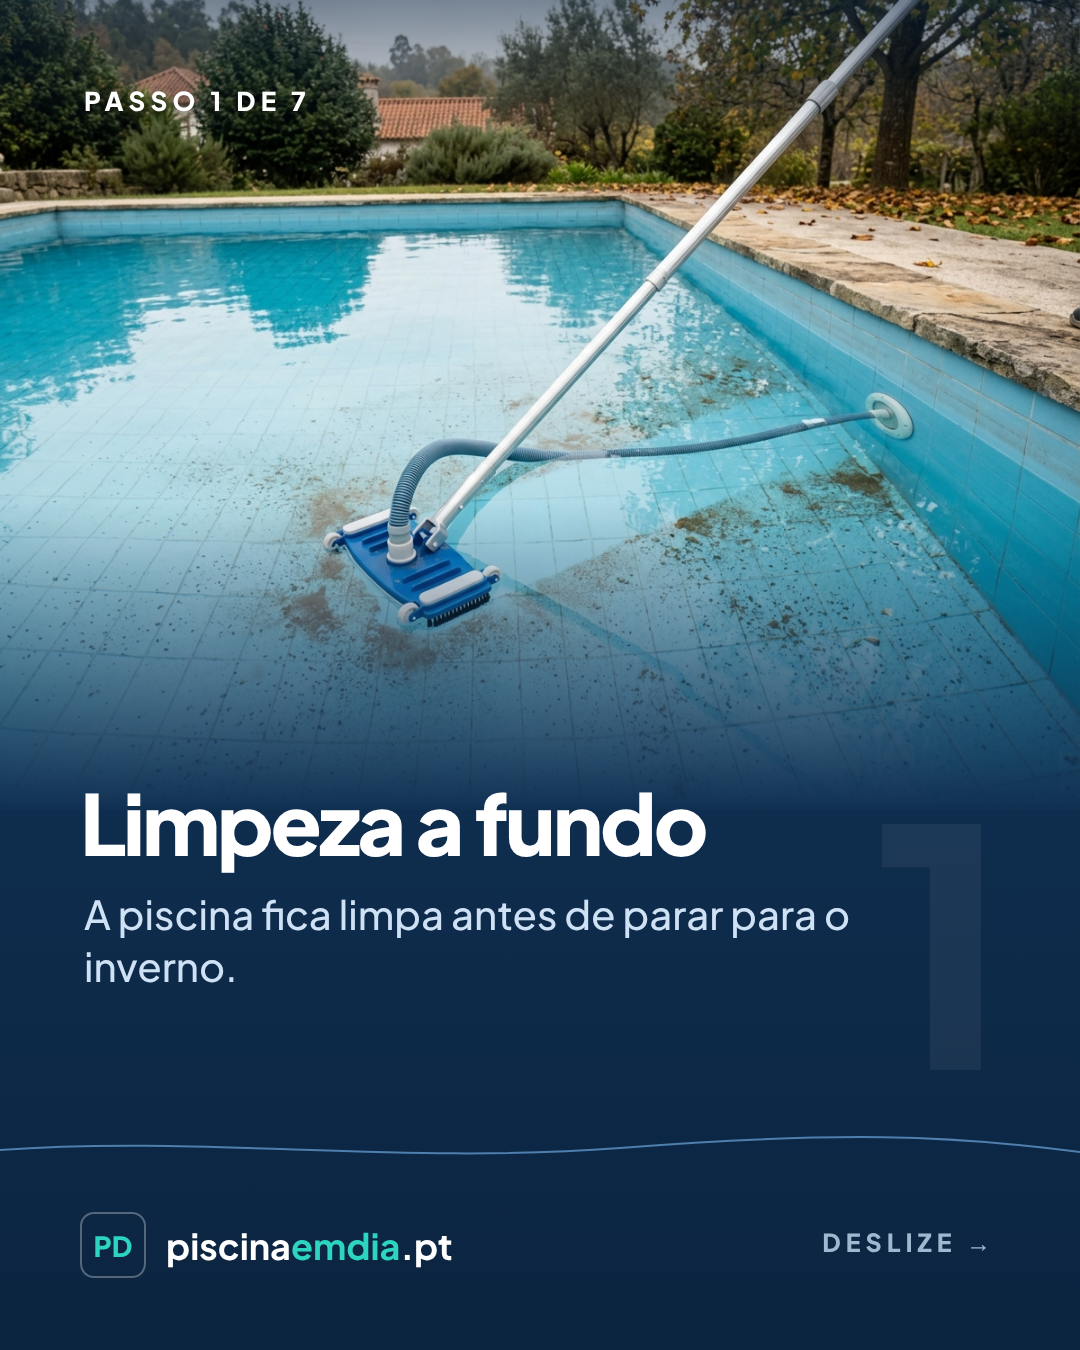
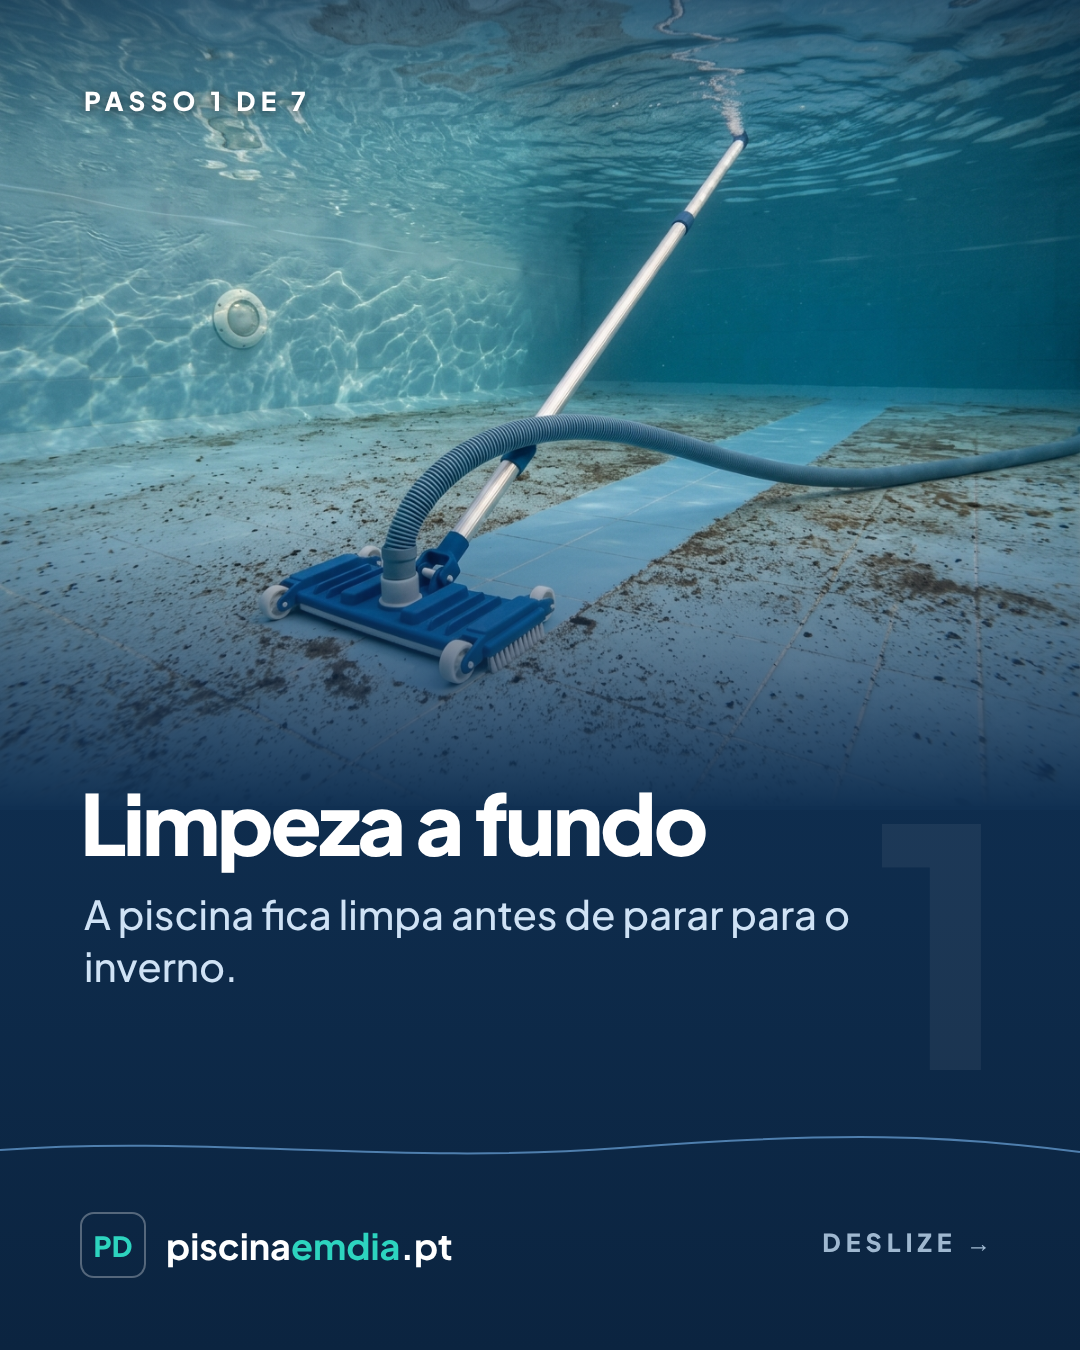
Replace floating vacuum photo with underwater shot
Claude-Session: https://claude.ai/code/session_015APGbDmTNWJmiYTMG5yM5V

diff --git a/piscina-em-dia/.agents/product-marketing.md b/piscina-em-dia/.agents/product-marketing.md
@@ -170,7 +170,7 @@ TO CONFIRM
 *Decisions and tested lessons. Newest first. Keep it to about 20 active entries.*
 | Date | Learning | Evidence | Applies to | Status |
 |------|----------|----------|------------|--------|
-| 2026-10-30 | AI images, second review: count hands/arms and vacuum heads and hoses in every image before sending (Gemini adds extra ones); vacuuming is done standing on the pool edge with a long telescopic pole, never kneeling with a short pole; the hose must be visibly fitted onto the vacuum head's single connector; avoid showing legible product labels | Owner review 2026-10-30: kneeling technician with short pole, loose hose, three arms in the test-kit photo | Image generation | Active |
+| 2026-10-30 | AI images, second review: count hands/arms and vacuum heads and hoses in every image before sending (Gemini adds extra ones); vacuuming is done standing on the pool edge with a long telescopic pole, never kneeling with a short pole; the hose must be visibly fitted onto the vacuum head's single connector; the head must rest on the floor under the water (an underwater shot works best, shots from the edge made it look like it was floating); avoid showing legible product labels | Owner review 2026-10-30: kneeling technician with short pole, loose hose, three arms in the test-kit photo | Image generation | Active |
 | 2026-10-30 | AI images: pass the owner's reference photo for skimmers, vacuum and dispenser; ask for one simple accessory per image; a manual vacuum head must show its hose going to the skimmer; with a reference image Gemini tends to copy its other objects (duplicate lids), so name the objects to copy and forbid the rest; prefer one hand in frame | Winter carousel, 2026-10-30: 3 of 7 step photos needed a second try (no hose, two lids, odd hands) | Image generation | Active |
 
 ## Changelog
